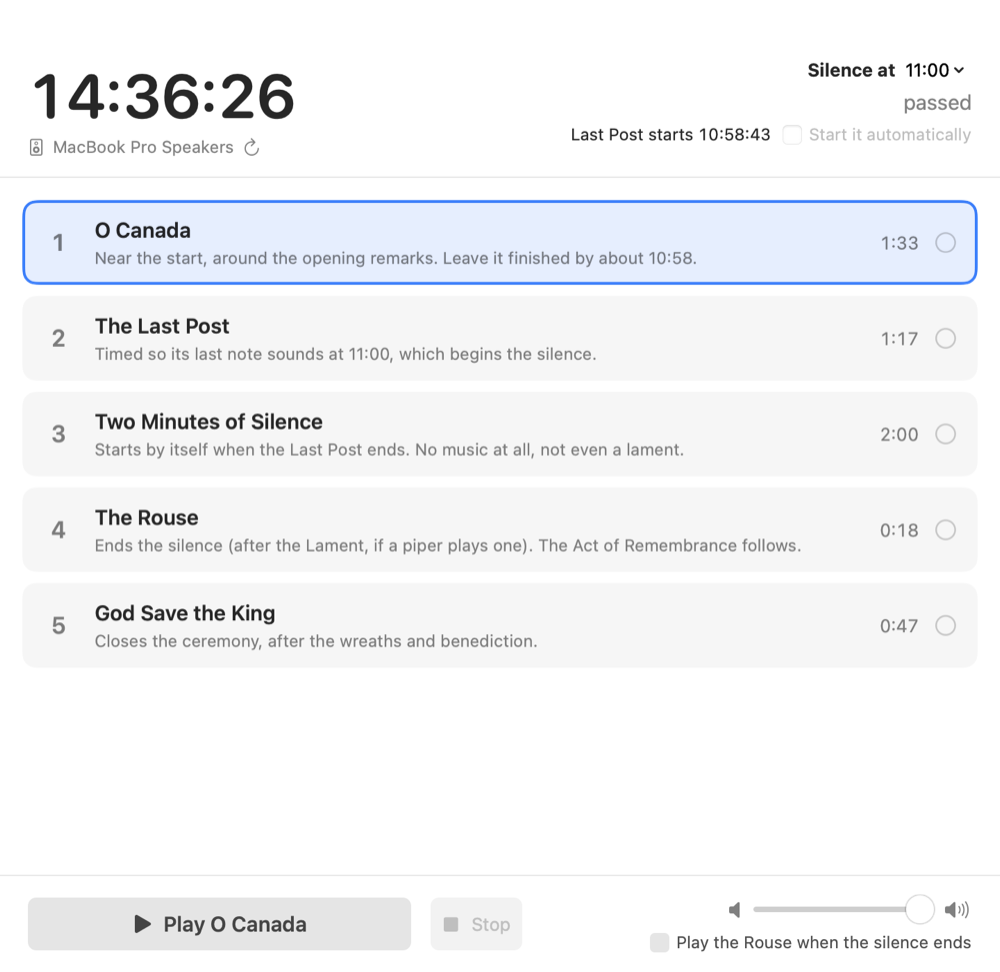
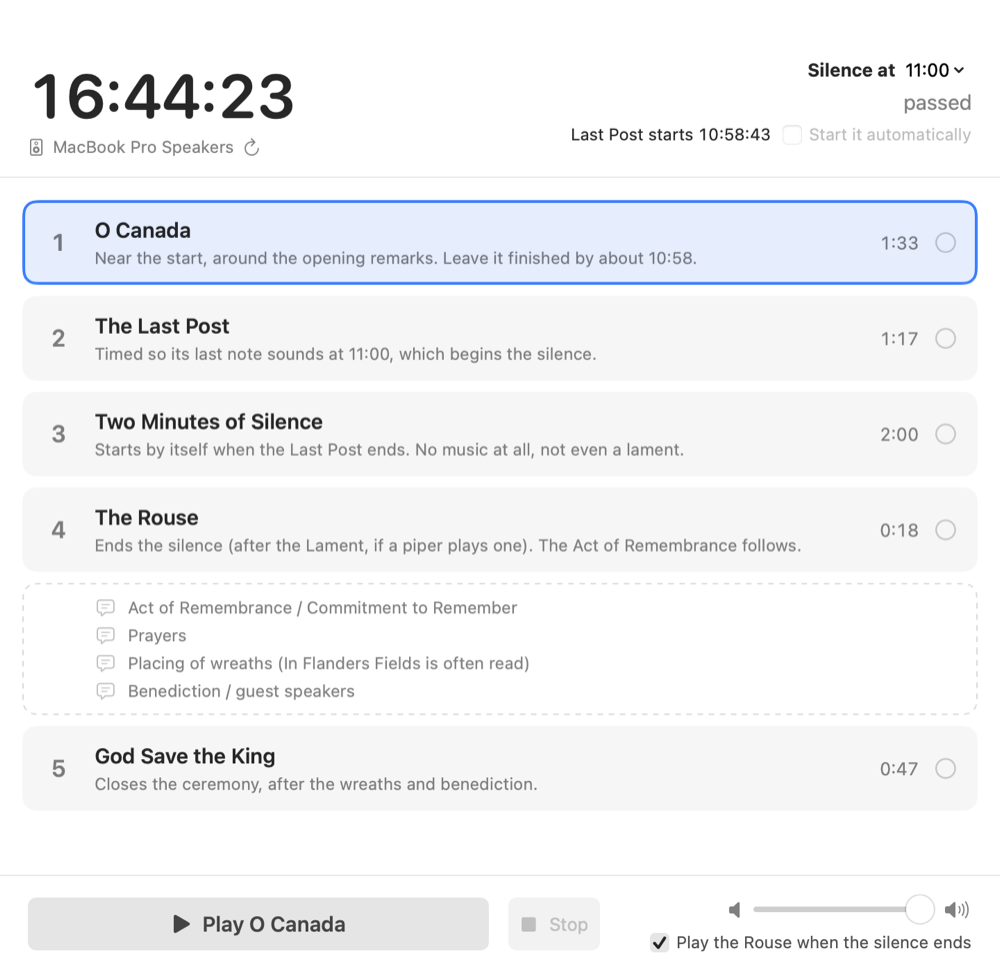
Show the spoken part of the service after the Rouse; keep Stop readable
A non-selectable section lists the Act of Remembrance, prayers, wreaths and
benediction between the Rouse and God Save the King. The Stop button no
longer collapses to an icon in a narrow window, and the window's minimum
width now fits the transport bar.

diff --git a/Sources/Remembrance/ContentView.swift b/Sources/Remembrance/ContentView.swift
@@ -14,6 +14,7 @@ struct ContentView: View {
                 VStack(spacing: 8) {
                     ForEach(Array(service.cues.enumerated()), id: \.element.id) { index, cue in
                         CueRow(index: index, cue: cue)
+                        if cue.id == "rouse" { SpokenSection() }
                     }
                 }
                 .padding(16)
@@ -23,7 +24,7 @@ struct ContentView: View {
                 .padding(.horizontal, 20).padding(.vertical, 14)
                 .background(.bar)
         }
-        .frame(minWidth: 620, minHeight: 600)
+        .frame(minWidth: 720, minHeight: 640)
     }
 }
 
@@ -190,6 +191,33 @@ private struct CueRow: View {
     }
 }
 
+// MARK: - Spoken part of the service (not a cue: shown for orientation, never selected)
+
+private struct SpokenSection: View {
+    static let items = [
+        "Act of Remembrance / Commitment to Remember",
+        "Prayers",
+        "Placing of wreaths (In Flanders Fields is often read)",
+        "Benediction / guest speakers",
+    ]
+
+    var body: some View {
+        VStack(alignment: .leading, spacing: 5) {
+            ForEach(Self.items, id: \.self) { item in
+                HStack(alignment: .firstTextBaseline, spacing: 8) {
+                    Image(systemName: "text.bubble").font(.callout).foregroundStyle(.tertiary)
+                    Text(item).font(.callout).foregroundStyle(.secondary)
+                }
+            }
+        }
+        .frame(maxWidth: .infinity, alignment: .leading)
+        .padding(.leading, 52).padding(.trailing, 14).padding(.vertical, 10)
+        .overlay(RoundedRectangle(cornerRadius: 10)
+            .strokeBorder(Color.secondary.opacity(0.3), style: StrokeStyle(lineWidth: 1, dash: [4, 4])))
+        .accessibilityElement(children: .combine)
+    }
+}
+
 // MARK: - Transport
 
 private struct Transport: View {
@@ -199,21 +227,27 @@ private struct Transport: View {
         HStack(spacing: 14) {
             Button(action: service.go) {
                 Label(playTitle, systemImage: service.isBusy ? "waveform" : "play.fill")
+                    .labelStyle(.titleAndIcon)
                     .font(.title3.weight(.semibold))
-                    .frame(minWidth: 260, minHeight: 34)
+                    .lineLimit(1)
+                    .frame(minWidth: 220, maxWidth: 320, minHeight: 34)
             }
             .buttonStyle(.borderedProminent)
             .controlSize(.large)
             .disabled(service.isBusy)
 
             Button { service.stop() } label: {
-                Label(stopTitle, systemImage: "stop.fill").frame(minHeight: 34)
+                Label(stopTitle, systemImage: "stop.fill")
+                    .labelStyle(.titleAndIcon)
+                    .lineLimit(1)
+                    .frame(minHeight: 34)
             }
+            .fixedSize()
             .controlSize(.large)
             .disabled(!service.isBusy)
             .help("Fades out over 1.5 seconds (Esc). Shift-Esc stops at once.")
 
-            Spacer()
+            Spacer(minLength: 8)
 
             VStack(alignment: .trailing, spacing: 6) {
                 HStack(spacing: 6) {
